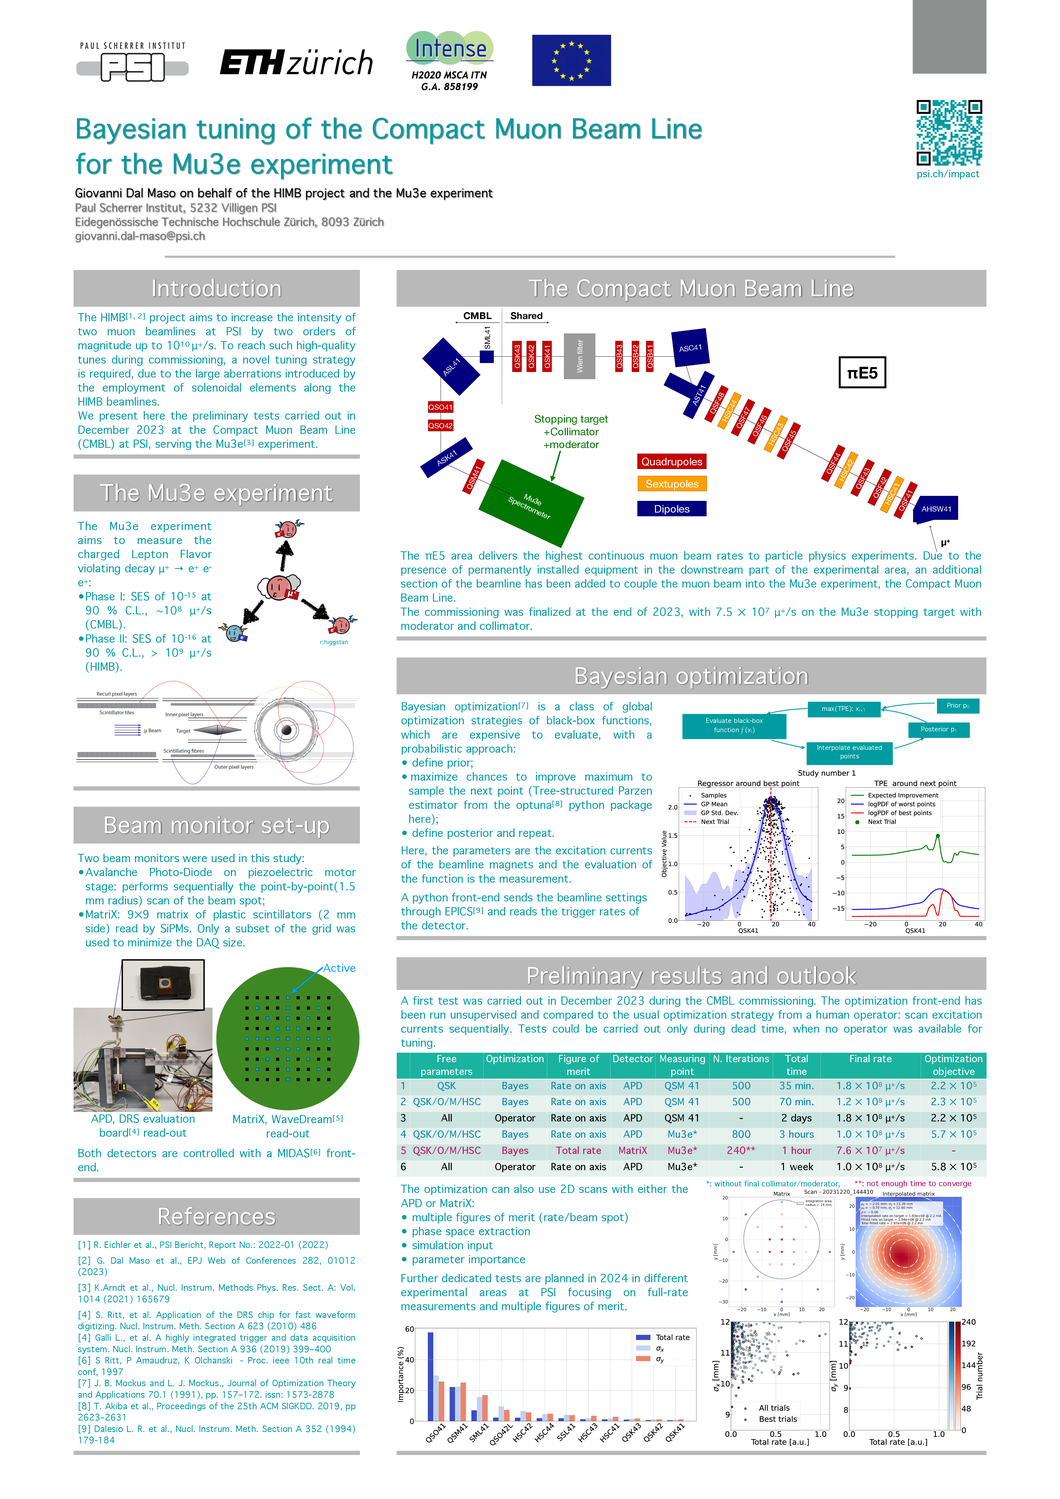
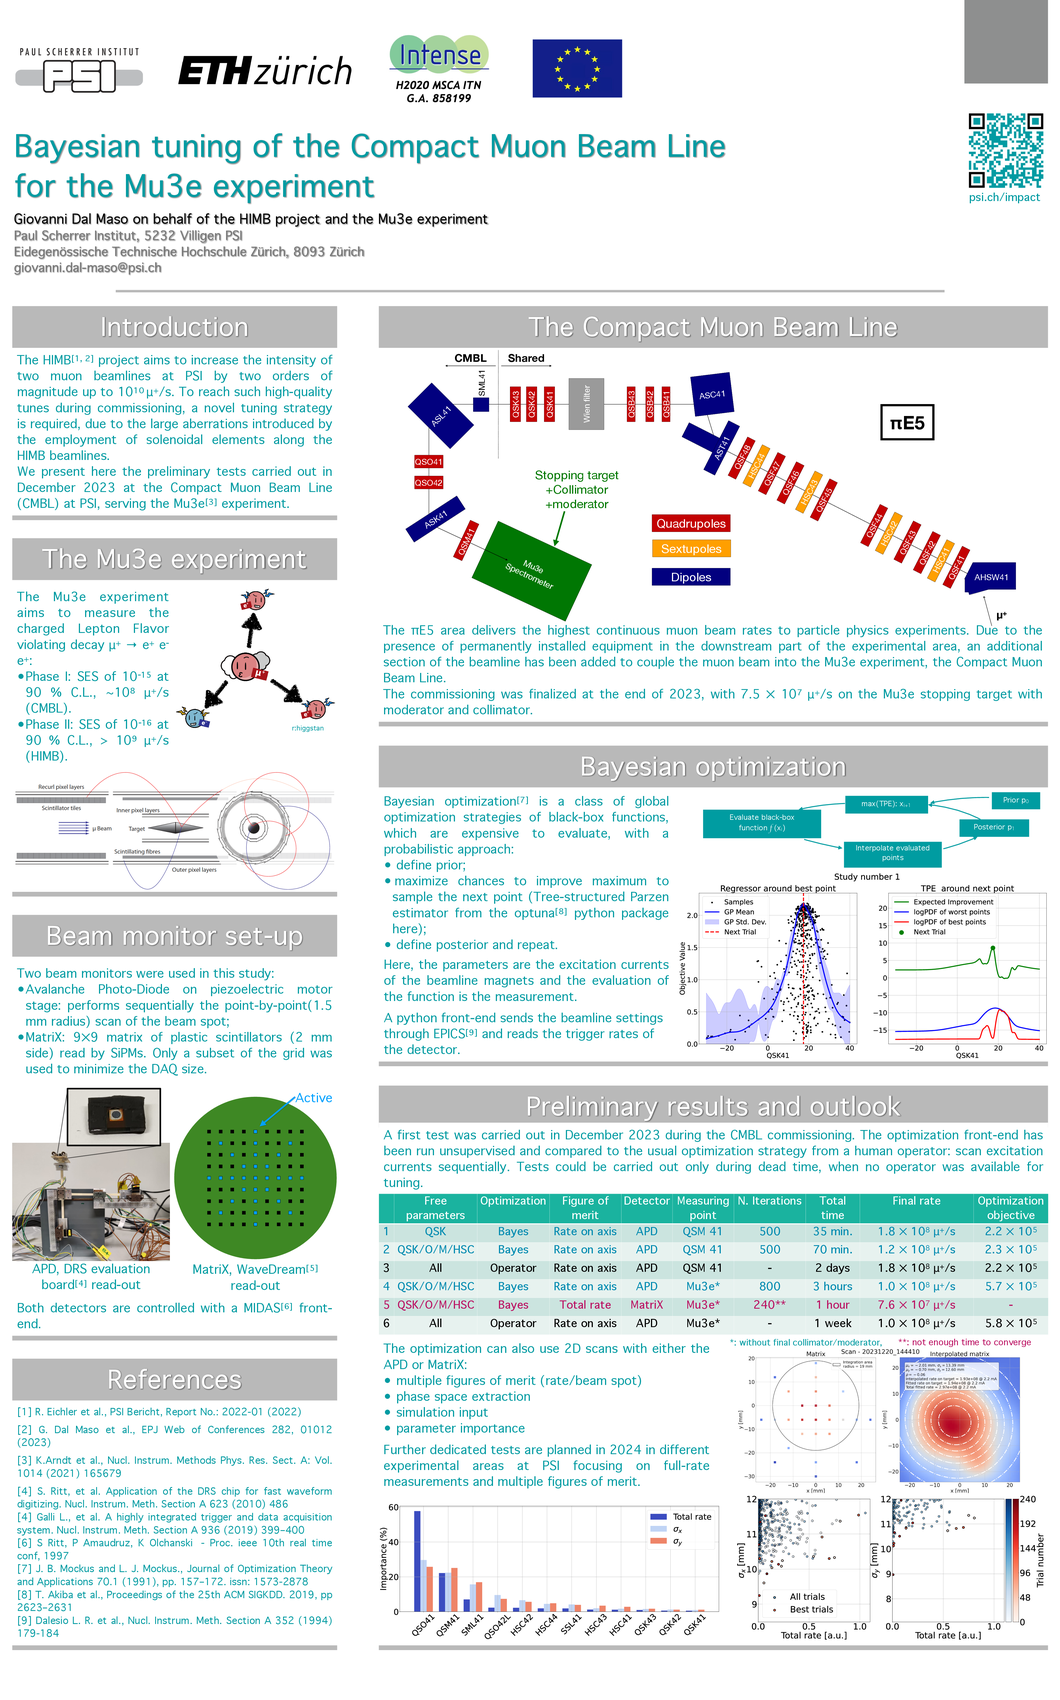
Initial import.

Changed region(s): [[0.0, 0.0, 0.9962, 0.982], [0.8406, 0.0, 0.9962, 0.1227], [0.934, 0.1534, 0.9962, 0.2148]]

diff --git a/pm2024/pm2024_raster.py b/pm2024/pm2024_raster.py
@@ -36,19 +36,20 @@ PARSER.add_argument('--target_width', type=int, default=1060,
     help='target width for the output png')
 PARSER.add_argument('--intermediate_width', type=int, default=4240,
     help='intermediate width')
+PARSER.add_argument('--autocrop', action='store_true')
 PARSER.add_argument('--overwrite', action='store_true')
 
 
 
 def raster_poster(poster_id: int, target_width: int, intermediate_width: int, output_folder: str,
-    overwrite: bool = False):
+    overwrite: bool = False, autocrop: bool = False):
     """
     """
     poster_name = f'{poster_id:03}'
     input_file_path = os.path.join(POSTER_FOLDER_PATH, f'{poster_name}.pdf')
     output_file_path = os.path.join(output_folder, f'{poster_name}.png')
     raster.raster_pdf(input_file_path, output_file_path, target_width,
-        intermediate_width, overwrite)
+        intermediate_width, overwrite, autocrop)
 
 
 
@@ -59,8 +60,8 @@ if __name__ == '__main__':
             file_name = os.path.basename(file_path)
             poster_id = int(file_name.replace('.pdf', ''))
             raster_poster(poster_id, args.target_width, args.intermediate_width,
-                args.output_folder, args.overwrite)
+                args.output_folder, args.overwrite, args.autocrop)
     else:
         for poster_id in args.posters:
             raster_poster(poster_id, args.target_width, args.intermediate_width,
-                args.output_folder, args.overwrite)
+                args.output_folder, args.overwrite, args.autocrop)

diff --git a/pisameet/raster.py b/pisameet/raster.py
@@ -152,7 +152,7 @@ def png_horizontal_autocrop(input_file_path: str, output_file_path: str,
 
 
 def raster_pdf(input_file_path: str, output_file_path: str, target_width: int,
-    intermediate_width: int = None, overwrite: bool = False) -> str:
+    intermediate_width: int = None, overwrite: bool = False, autocrop: bool = False) -> str:
     """Raster a pdf file and convert it to a png.
     """
     if os.path.exists(output_file_path) and not overwrite:
@@ -168,6 +168,8 @@ def raster_pdf(input_file_path: str, output_file_path: str, target_width: int,
     logger.debug('Performing intermediate rastering...')
     density = intermediate_width / original_width * REFERENCE_DENSITY
     file_path = pdf_to_png(input_file_path, output_file_path, density)
+    if autocrop:
+        png_horizontal_autocrop(file_path, file_path)
     logger.debug('Resizing to target width...')
     return png_resize_to_width(file_path, file_path, target_width)
 
